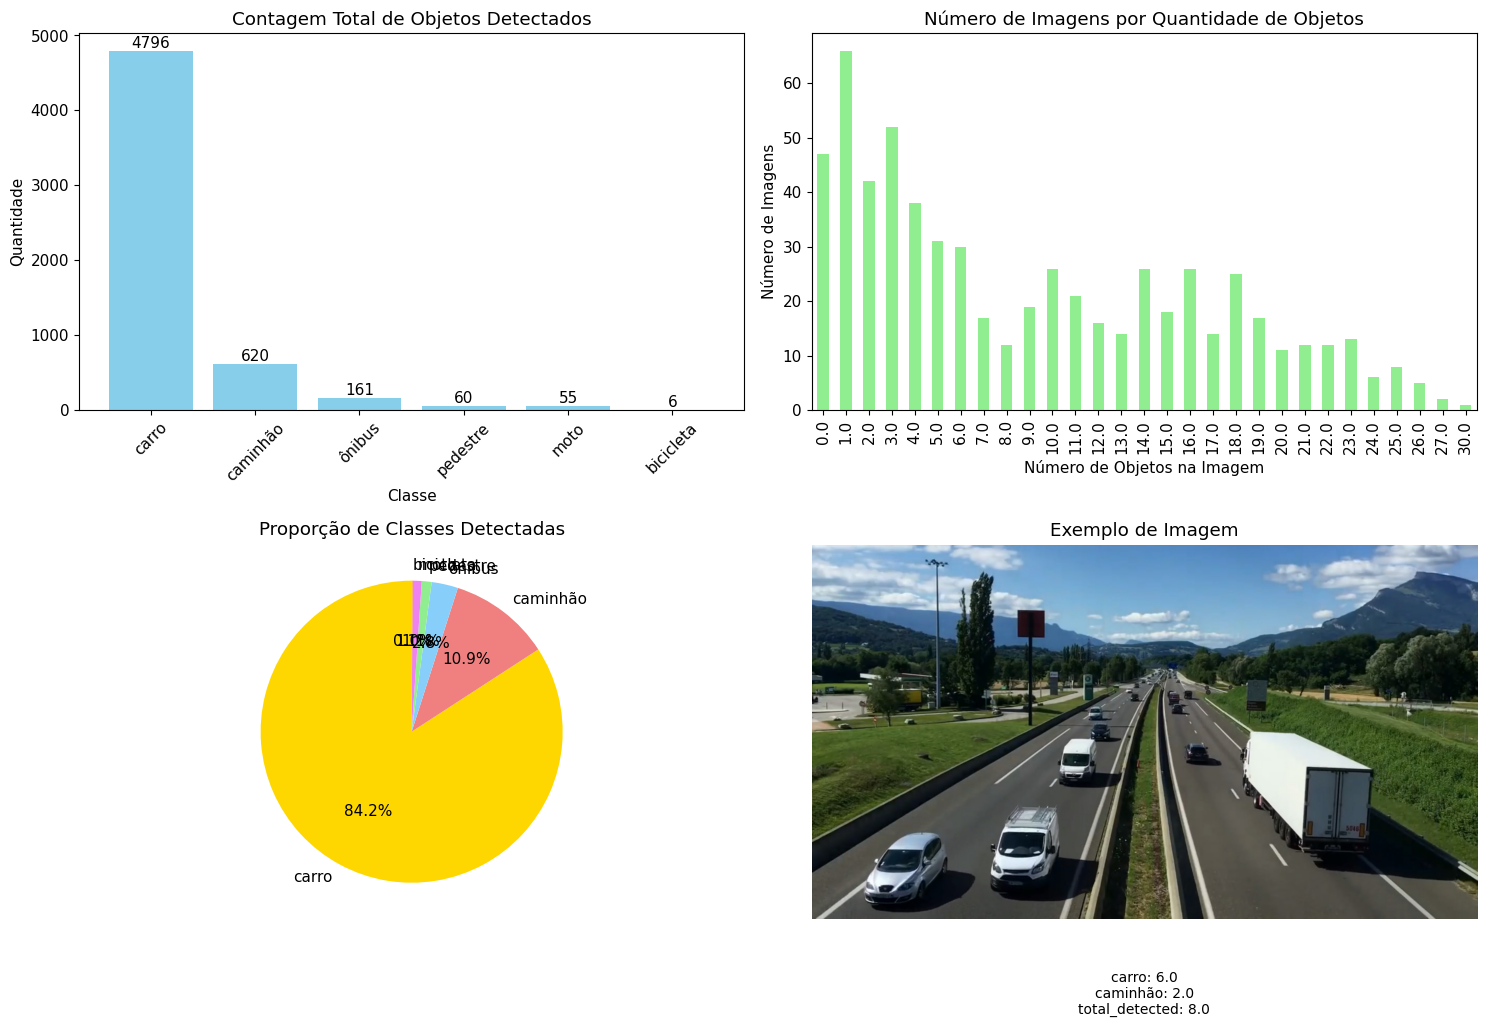
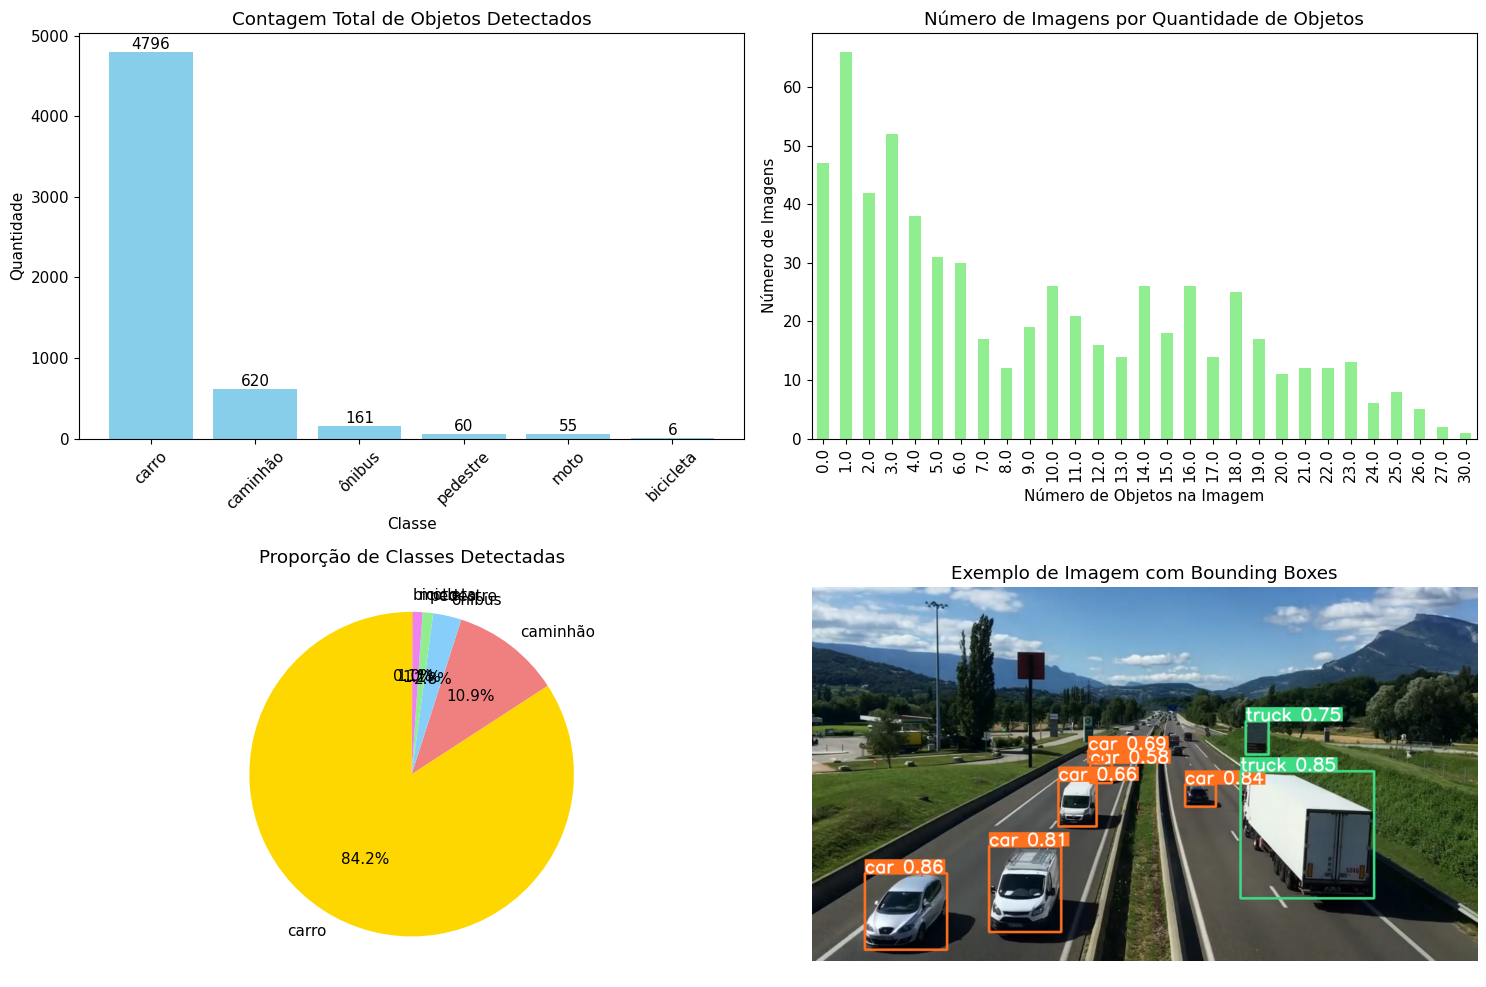
Bounding boxes nas imagens de resultado

diff --git a/deteccao_objeto.py b/deteccao_objeto.py
@@ -72,7 +72,7 @@ def setup_model():
     model = yolov5.load('yolov5s.pt')  # Versão small (mais rápida)
     
     # Configurações do modelo
-    model.conf = 0.8  # Limite de confiança
+    model.conf = 0.5  # Limite de confiança
     model.iou = 0.45  # Limite de IoU
     #  Limite de Intersection over Union para supressão de detecções redundantes
     
@@ -146,7 +146,7 @@ def process_images(image_files, model, sample_size=None):
     return total_counts, pd.DataFrame(results_data)
 
 # 4. Visualização dos resultados
-def visualize_results(total_counts, df_results):
+def visualize_results(total_counts, df_results, model):
     plt.figure(figsize=(15, 10))
     
     # Gráfico 1: Contagem total por classe
@@ -189,29 +189,42 @@ def visualize_results(total_counts, df_results):
     img = cv2.imread(sample_image_path)
     img = cv2.cvtColor(img, cv2.COLOR_BGR2RGB)
     
-    # Adicionar texto com as contagens da primeira imagem
-    counts_text = "\n".join([f"{k}: {v}" for k, v in df_results.iloc[0].items() 
-                           if k != 'image_path' and v > 0])
-    plt.text(0.5, -0.2, counts_text, ha='center', va='center', 
-             transform=plt.gca().transAxes, fontsize=10)
-    plt.imshow(img)
-    plt.title('Exemplo de Imagem')
+    # Processar a imagem com o modelo para obter as bounding boxes
+    results = model(img)
+    rendered_img = results.render()[0]  # Imagem com bounding boxes
+    
+    plt.imshow(rendered_img)
+    plt.title('Exemplo de Imagem com Bounding Boxes')
     plt.axis('off')
     
     plt.tight_layout()
     plt.savefig('resultados_visualizacao.png', bbox_inches='tight')
     plt.show()
     
-    # Visualização adicional: Top 3 imagens com mais detecções
+    # Visualização adicional: Top 3 imagens com mais detecções (com bounding boxes)
     top_images = df_results.nlargest(3, 'total_detected')
     plt.figure(figsize=(15, 8))
+    
+    # Criar diretório para salvar as imagens com bounding boxes
+    os.makedirs('deteccoes', exist_ok=True)
+    
     for i, (_, row) in enumerate(top_images.iterrows(), 1):
-        img = cv2.imread(row['image_path'])
+        img_path = row['image_path']
+        img = cv2.imread(img_path)
         img = cv2.cvtColor(img, cv2.COLOR_BGR2RGB)
         
+        # Processar a imagem com o modelo para obter as bounding boxes
+        results = model(img)
+        rendered_img = results.render()[0]  # Imagem com bounding boxes
+        
+        # Salvar a imagem com bounding boxes
+        output_path = os.path.join('deteccoes', f'detected_{os.path.basename(img_path)}')
+        cv2.imwrite(output_path, cv2.cvtColor(rendered_img, cv2.COLOR_RGB2BGR))
+        
+        # Mostrar na visualização
         plt.subplot(2, 3, i)
-        plt.imshow(img)
-        plt.title(f"{row['total_detected']} objetos\n{os.path.basename(row['image_path'])}")
+        plt.imshow(rendered_img)
+        plt.title(f"{row['total_detected']} objetos\n{os.path.basename(img_path)}")
         plt.axis('off')
         
         # Adicionar legenda com contagem por classe
@@ -246,7 +259,7 @@ def main():
         print(f"{obj_type}: {count}")
     
     # Visualização
-    visualize_results(total_counts, df_results)
+    visualize_results(total_counts, df_results, model)
     
     # Exportar resultados
     df_results.to_csv("resultados_deteccao.csv", index=False)
